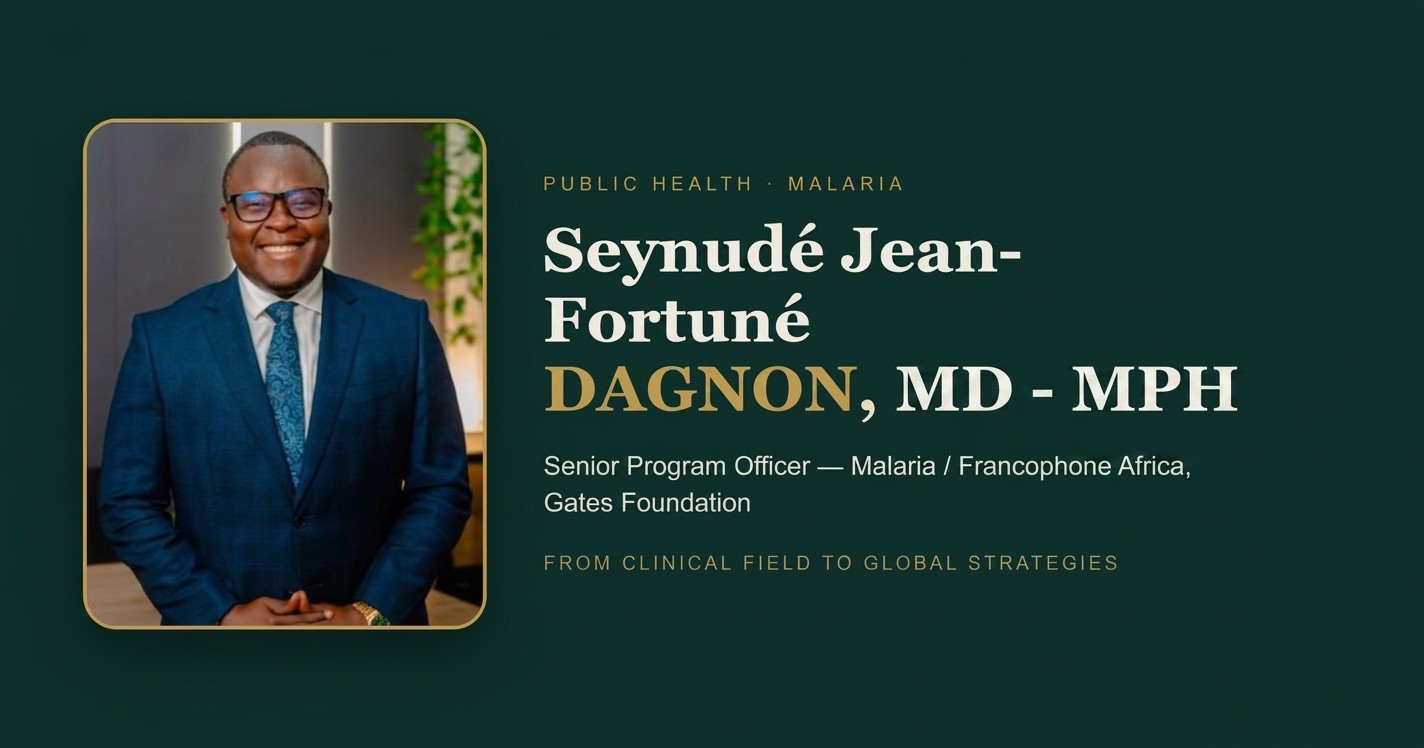
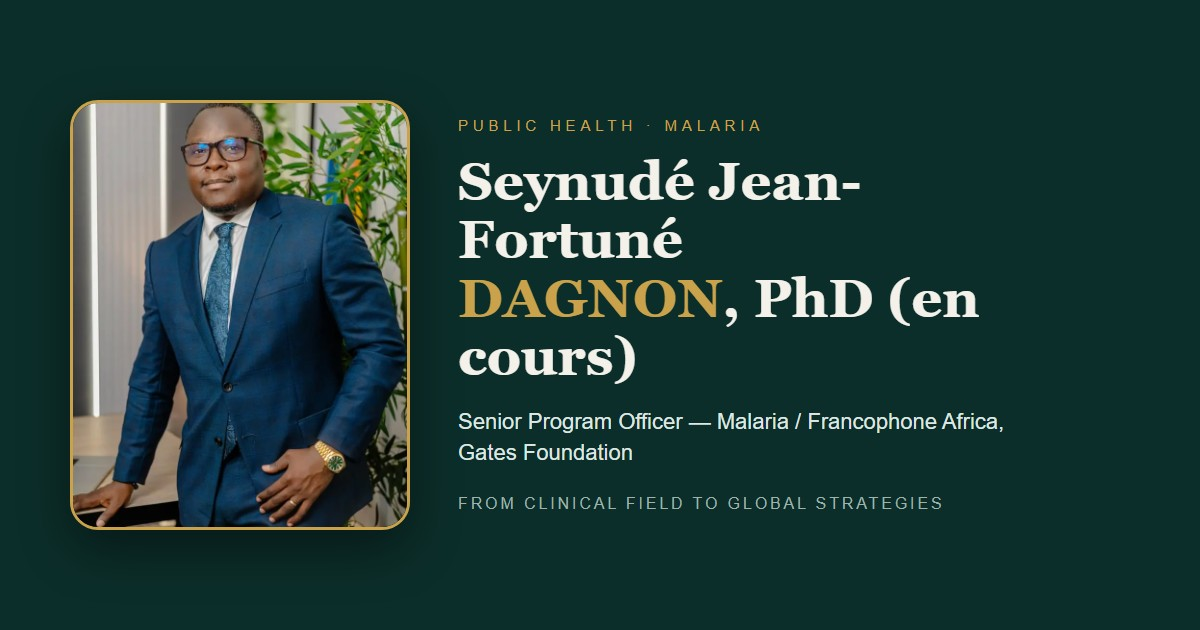
fix: SEO and data consistency from audit — robots disallow for private SPA routes, og:type article on op-eds, localized ContactPage URL, unified tribune link, og card with PhD (en cours), corrected bibliography count

diff --git a/src/data/site.ts b/src/data/site.ts
@@ -459,7 +459,7 @@ export const MEDIA: Record<Lang, { kind: string; title: string; event: string; u
 export const PUBLICATIONS: Record<Lang, { title: string; authors: string; journal: string; year: number; url?: string; featured?: boolean }[]> = {
   fr: [
     { title: 'Funding landscape — Fondation Bill & Melinda Gates', authors: 'Seynudé Jean-Fortuné Dagnon', journal: 'Présentation · AMP / SMC 2026', year: 2026, url: 'https://allianceformalariaprevention.com/wp-content/uploads/2026/02/04-d_Funding-Landscape_Gates-Foundation_Seynude-Dagnon_ENG.pdf', featured: true },
-    { title: 'Du contrôle du paludisme à son élimination : le virage que nous devons prendre', authors: 'Rose Leke, Seynudé Jean Fortune Dagnon', journal: 'Africa Health Watch — Perspectives', year: 2026, url: 'https://www.africahealthwatch.com/p/from-malaria-control-to-elimination?utm_source=publication-search' },
+    { title: 'Du contrôle du paludisme à son élimination : le virage que nous devons prendre', authors: 'Rose Leke, Seynudé Jean Fortune Dagnon', journal: 'Africa Health Watch — Perspectives', year: 2026, url: 'https://africahealthwatch.com/from-malaria-control-to-elimination-the-turn-we-need-to-make/?utm_source=publication-search' },
     { title: 'Barrières à l’adoption et à la mise en œuvre de la chimioprévention du paludisme chez les enfants d’âge scolaire : rapport d’une réunion d’engagement des parties prenantes', authors: 'Morlino C., Byrne I., Achan J., … Dagnon S.J.F., … Cohee L.M.', journal: 'Frontiers in Tropical Diseases', year: 2025, url: 'https://doi.org/10.3389/fitd.2025.1480907' },
     { title: 'Faible prévalence d’allèles de dihydropteroate synthase hautement résistants à la sulfadoxine au Bénin', authors: 'Souza Svigel S., Adeothy A., Kpemasse A., … Dagnon F., … Lucchi N.W.', journal: 'Malaria Journal', year: 2021, url: 'https://doi.org/10.1186/s12936-021-03605-5' },
     { title: 'Durabilité et bio-efficacité de trois moustiquaires imprégnées de longue durée dans trois communautés après la campagne de distribution de masse 2017 au Bénin', authors: 'Ahogni I.B., Salako A.S., Dagnon J.F., … Akogbeto M.C.', journal: 'Journal of Biology and Life Science', year: 2020, url: 'https://doi.org/10.5296/jbls.v11i2.17645' },
@@ -479,7 +479,7 @@ export const PUBLICATIONS: Record<Lang, { title: string; authors: string; journa
   ],
   en: [
     { title: 'Funding landscape — Bill & Melinda Gates Foundation', authors: 'Seynudé Jean-Fortuné Dagnon', journal: 'Presentation · AMP / SMC 2026', year: 2026, url: 'https://allianceformalariaprevention.com/wp-content/uploads/2026/02/04-d_Funding-Landscape_Gates-Foundation_Seynude-Dagnon_ENG.pdf', featured: true },
-    { title: 'From Malaria Control to Elimination: The Turn We Need to Make', authors: 'Rose Leke, Seynudé Jean Fortune Dagnon', journal: 'Africa Health Watch — Perspectives', year: 2026, url: 'https://www.africahealthwatch.com/p/from-malaria-control-to-elimination?utm_source=publication-search' },
+    { title: 'From Malaria Control to Elimination: The Turn We Need to Make', authors: 'Rose Leke, Seynudé Jean Fortune Dagnon', journal: 'Africa Health Watch — Perspectives', year: 2026, url: 'https://africahealthwatch.com/from-malaria-control-to-elimination-the-turn-we-need-to-make/?utm_source=publication-search' },
     { title: 'Barriers to uptake and implementation of malaria chemoprevention in school-aged children: a stakeholder engagement meeting report', authors: 'Morlino C., Byrne I., Achan J., … Dagnon S.J.F., … Cohee L.M.', journal: 'Frontiers in Tropical Diseases', year: 2025, url: 'https://doi.org/10.3389/fitd.2025.1480907' },
     { title: 'Low prevalence of highly sulfadoxine-resistant dihydropteroate synthase alleles in Plasmodium falciparum isolates in Benin', authors: 'Souza Svigel S., Adeothy A., Kpemasse A., … Dagnon F., … Lucchi N.W.', journal: 'Malaria Journal', year: 2021, url: 'https://doi.org/10.1186/s12936-021-03605-5' },
     { title: 'Assessment of the Durability and Bio-effectiveness of Three Long-Lasting Insecticidal Nets in Three Different Communities After the 2017 Mass Net Distribution Campaign in Benin', authors: 'Ahogni I.B., Salako A.S., Dagnon J.F., … Akogbeto M.C.', journal: 'Journal of Biology and Life Science', year: 2020, url: 'https://doi.org/10.5296/jbls.v11i2.17645' },

diff --git a/CHANGELOG.html b/CHANGELOG.html
@@ -102,7 +102,7 @@
     <p class="vsummary">Le site devient un produit complet : pages réglementaires et bibliographie scientifique indexées, tableau de bord d'administration protégé, abonnés maîtres de leur fréquence de newsletter, tribunes audibles, et monitoring de performance réel branché sur Vercel — le tout gardé par un budget de performance CI et une suite de 207 tests.</p>
     <ul>
       <li><strong>Mentions légales &amp; RGPD</strong> — nouvelle route <code>/legal</code> (et <code>/fr/legal</code>) : éditeur, hébergement (Vercel), données personnelles, cookies, sécurité, presse et droits de propriété intellectuelle, mise à jour du 2 août 2026 ; page en fil d'Ariane, JSON-LD <code>CollectionPage</code>, sitemap (priorité 0,3) et lien dans le footer.</li>
-      <li><strong>Bibliographie scientifique</strong> — nouvelle route <code>/bibliography</code> (et <code>/fr/bibliography</code>) : 24 publications avec DOI issues du même fichier que les pages projets (badge DOI), filtres par année et tri, recherche partagée par URL, export de toute la liste en BibTeX ou citation unique (APA/RIS/BibTeX) via la boîte de citation — le DOI est privilégié dans l'APA et renseigne <code>volume</code>/<code>number</code>/<code>pages</code>/<code>doi</code> en BibTeX et <code>VL/IS/SP/DO</code> en RIS.</li>
+      <li><strong>Bibliographie scientifique</strong> — nouvelle route <code>/bibliography</code> (et <code>/fr/bibliography</code>) : 13 publications avec DOI issues du même fichier que les pages projets (badge DOI), filtres par année et tri, recherche partagée par URL, export de toute la liste en BibTeX ou citation unique (APA/RIS/BibTeX) via la boîte de citation — le DOI est privilégié dans l'APA et renseigne <code>volume</code>/<code>number</code>/<code>pages</code>/<code>doi</code> en BibTeX et <code>VL/IS/SP/DO</code> en RIS.</li>
       <li><strong>Tableau de bord d'administration</strong> — nouvelle route client-only <code>/admin</code> (et <code>/fr/admin</code>) : abonnés à la newsletter, abonnés push, dernier digest envoyé et événements rappelés, agrégés en un seul aller-retour KV ; accès par jeton porteur (secret d'administration, ou secret de cron en secours), session en <code>sessionStorage</code>, page jamais pré-rendue ni indexée (<code>noindex</code> réaffirmé au montage).</li>
       <li><strong>Préférences de newsletter</strong> — chaque email de digest porte désormais un lien « Préférences » : le lecteur choisit la fréquence hebdomadaire ou mensuelle (route client-only <code>/newsletter/preferences</code>, lien signé 90 jours, clé <code>newsletter:prefs:&lt;email&gt;</code> avec TTL 1 an). Le sender partitionne ses envois : digest hebdomadaire aux hebdomadaires, digest mensuel aux mensuels (marqueur <code>newsletter:last-monthly</code>), et le désabonnement purge aussi les préférences.</li>
       <li><strong>Tribunes en audio</strong> — bouton d'écoute sur chaque tribune (synthèse vocale du navigateur, langue FR/EN selon la page, débit ajusté, arrêt à la sortie) avec suivi d'événement ; la synthèse non supportée désactive simplement le bouton.</li>

diff --git a/src/seo/meta.ts b/src/seo/meta.ts
@@ -417,7 +417,7 @@ export function contactPageJsonLd(lang: Lang) {
     '@type': 'ContactPage',
     name: CONTACT_SEO[lang].title,
     description: CONTACT_SEO[lang].description,
-    url: `${SITE_URL}/contact`,
+    url: absUrl(lang, '/contact'),
     mainEntity: {
       '@type': 'Person',
       name: fullName(lang),
@@ -723,6 +723,9 @@ export interface PageMeta {
   ogImageWidth: number;
   ogImageHeight: number;
   ogImageType: string;
+  /** 'article' on op-ed/project pages so social platforms render a rich
+      card, 'website' elsewhere */
+  ogType: string;
   ogLocale: string;
   ogLocaleAlternate: string;
   siteName: string;
@@ -839,6 +842,10 @@ export function pageMeta(lang: Lang, path: string): PageMeta {
 
   const url = absUrl(lang, route);
 
+  /* op-eds and project write-ups are articles for social platforms — a
+     website og:type would strip the share card of its rich formatting */
+  const ogType = tribune || project ? 'article' : 'website';
+
   /* every article gets its own social card (scripts/gen-article-og.mjs draws
      the title on the brand background); photos and everything else keep the
      site-wide card */
@@ -868,6 +875,7 @@ export function pageMeta(lang: Lang, path: string): PageMeta {
     ogImageWidth,
     ogImageHeight,
     ogImageType,
+    ogType,
     ogLocale: SEO[lang].ogLocale,
     ogLocaleAlternate: SEO[lang === 'fr' ? 'en' : 'fr'].ogLocale,
     siteName: fullName(lang),

diff --git a/src/data/publications.ts b/src/data/publications.ts
@@ -29,7 +29,7 @@ export const PUB_ITEMS: PubEntry[] = [
     authors: { fr: 'Rose Leke, Seynudé Jean Fortune Dagnon', en: 'Rose Leke, Seynudé Jean Fortune Dagnon' },
     journal: { fr: 'Africa Health Watch — Perspectives', en: 'Africa Health Watch — Perspectives' },
     description: { fr: 'Plaide pour un passage du contrôle à l\'élimination du paludisme en Afrique : viser l\'arrêt de la transmission, prioriser les zones frontalières mal desservies et renforcer le leadership des institutions locales.', en: 'Argues that African countries must move from malaria control to elimination: redefining success as ending transmission, prioritizing underserved border regions, and empowering local institutions to lead.' },
-    url: 'https://www.africahealthwatch.com/p/from-malaria-control-to-elimination?utm_source=publication-search',
+    url: 'https://africahealthwatch.com/from-malaria-control-to-elimination-the-turn-we-need-to-make/?utm_source=publication-search',
   },
   {
     id: 'frontiers-chemoprevention-2025',

diff --git a/src/data/tribunes.ts b/src/data/tribunes.ts
@@ -21,7 +21,7 @@ export const TRIBUNES: TribuneEntry[] = [
   {
     slug: 'from-malaria-control-to-elimination',
     date: '2026-05-01',
-    source: { name: 'Africa Health Watch', url: 'https://www.africahealthwatch.com/p/from-malaria-control-to-elimination' },
+    source: { name: 'Africa Health Watch', url: 'https://africahealthwatch.com/from-malaria-control-to-elimination-the-turn-we-need-to-make/' },
     title: {
       fr: 'Du contrôle du paludisme à l\'élimination : le virage à prendre',
       en: 'From Malaria Control to Elimination: The Turn We Need to Make',

diff --git a/src/components/Seo.tsx b/src/components/Seo.tsx
@@ -54,6 +54,7 @@ export function Seo() {
     upsertMeta('meta[name="description"]', meta.description);
     upsertMeta('meta[name="keywords"]', meta.keywords);
     upsertMeta('meta[property="og:title"]', meta.title);
+    upsertMeta('meta[property="og:type"]', meta.ogType || 'website');
     upsertMeta('meta[property="og:description"]', meta.description);
     upsertMeta('meta[property="og:url"]', meta.url);
     upsertMeta('meta[property="og:locale"]', meta.ogLocale);
